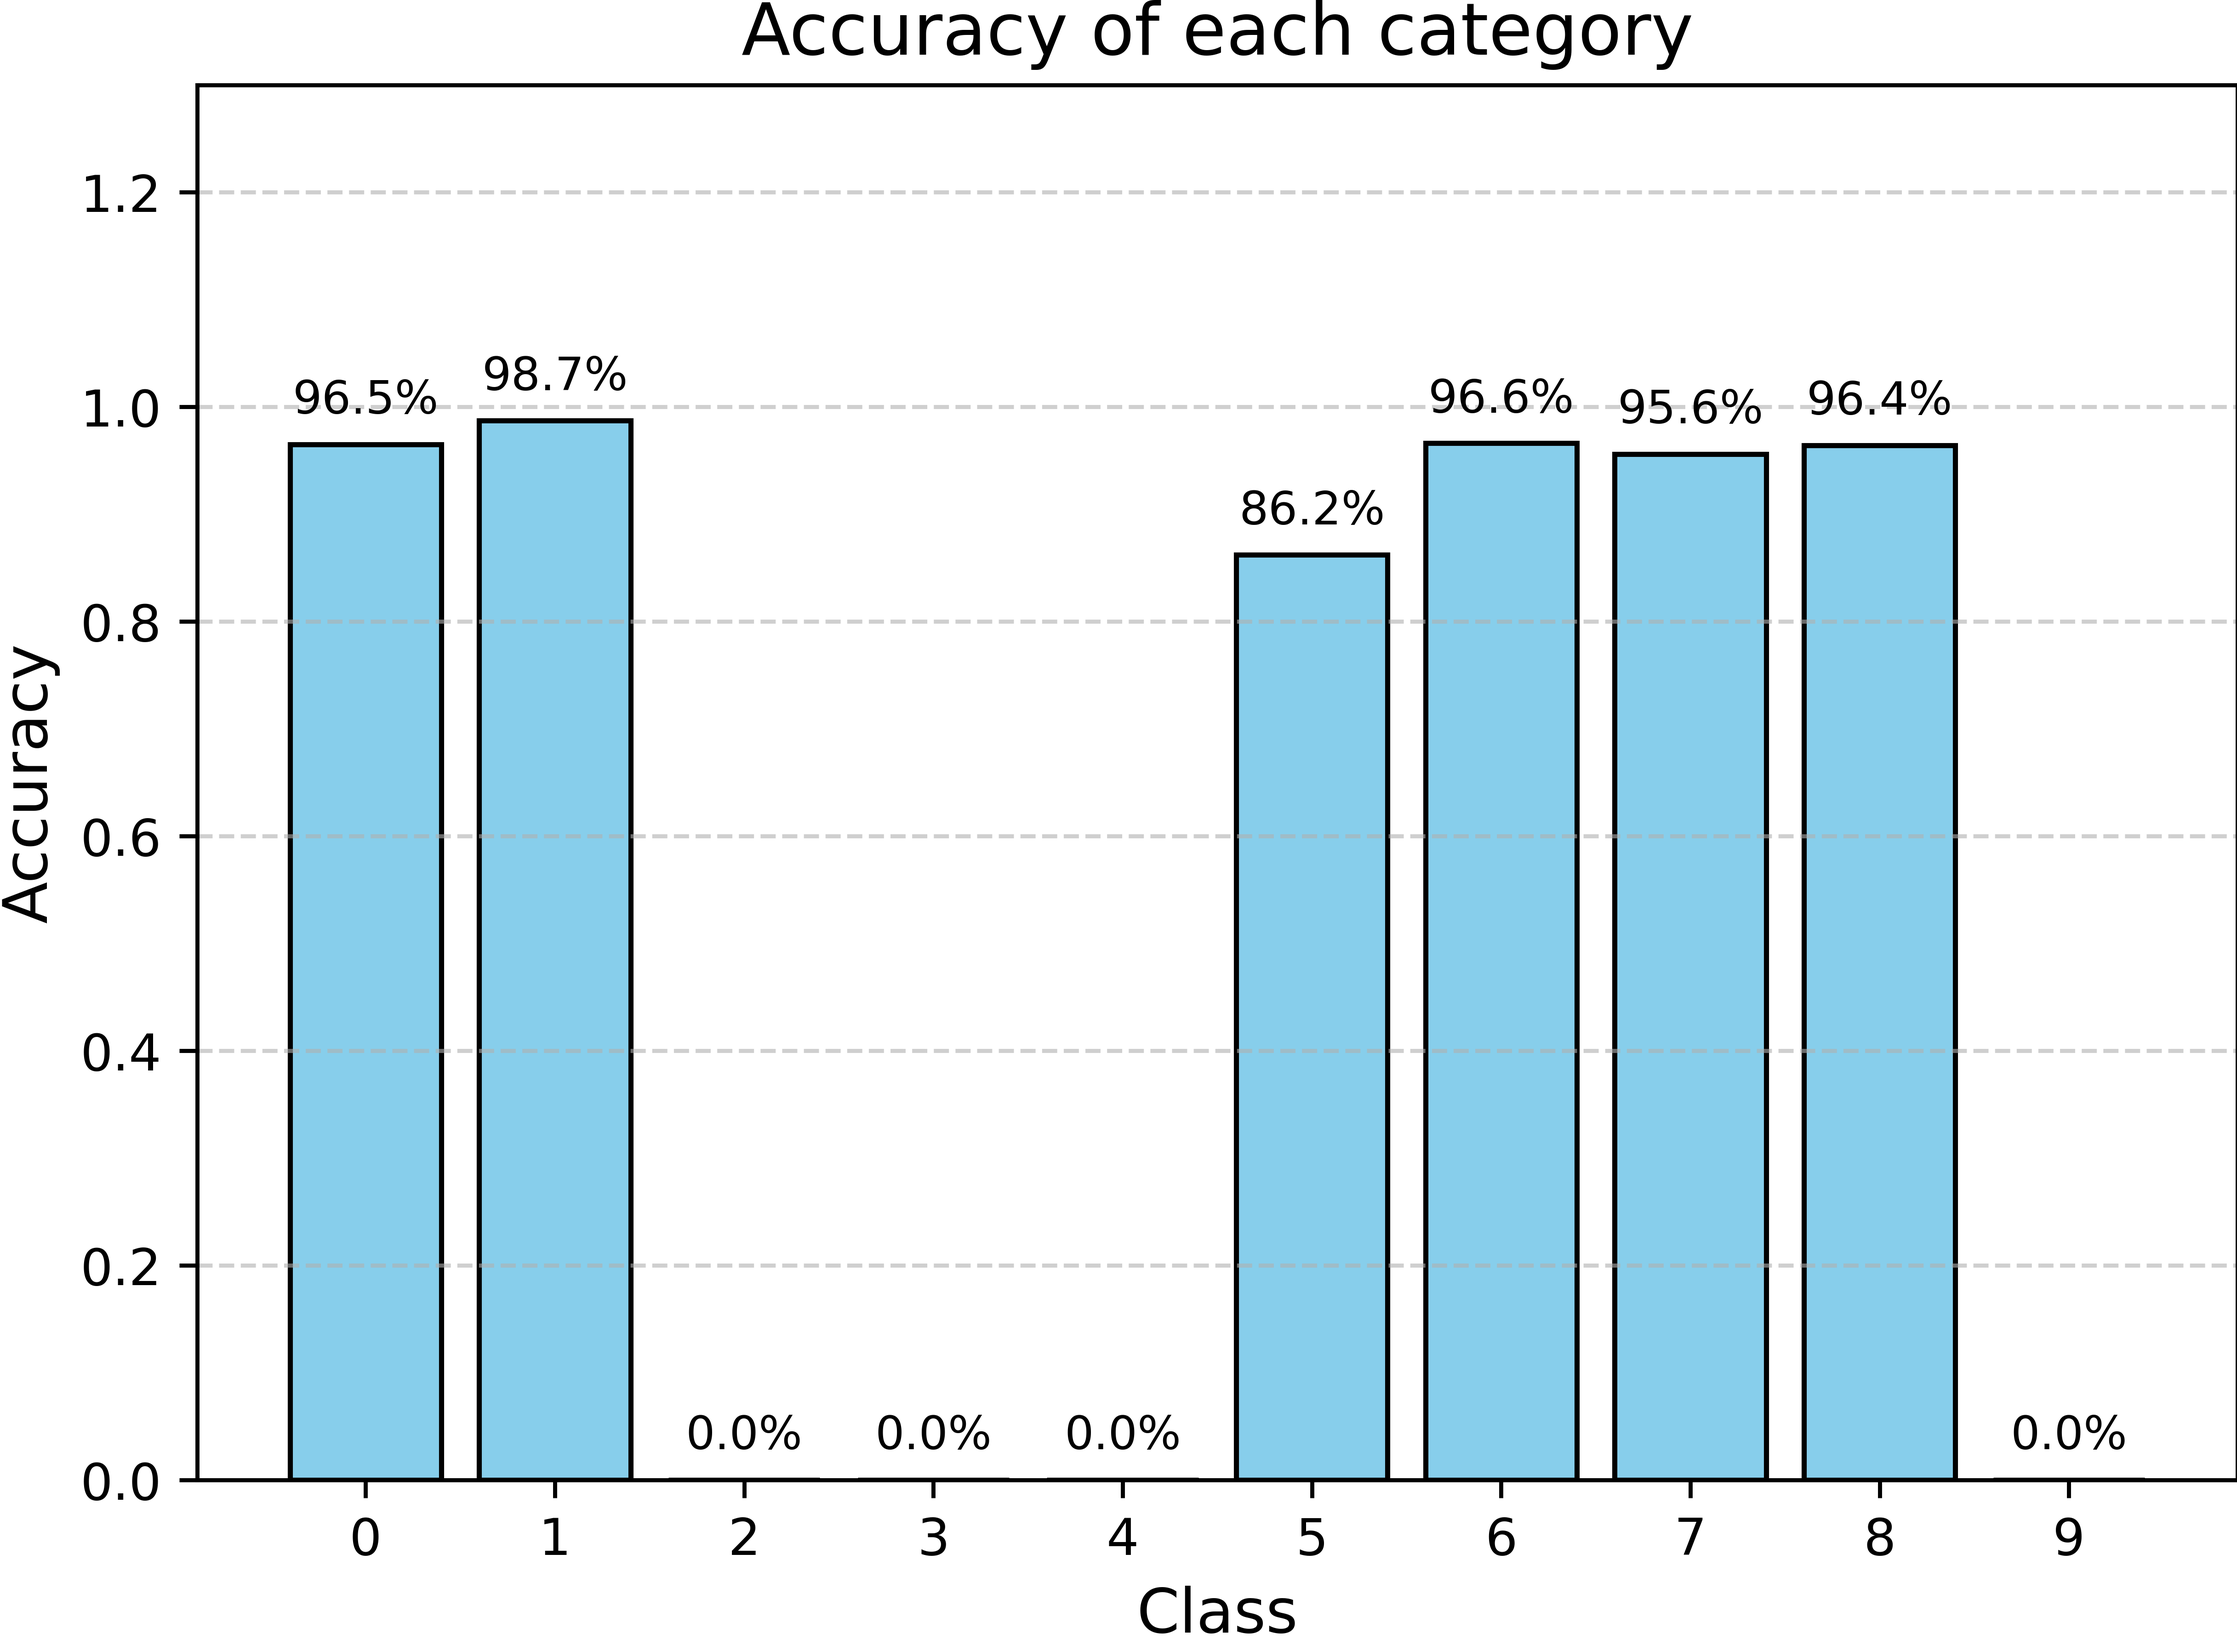
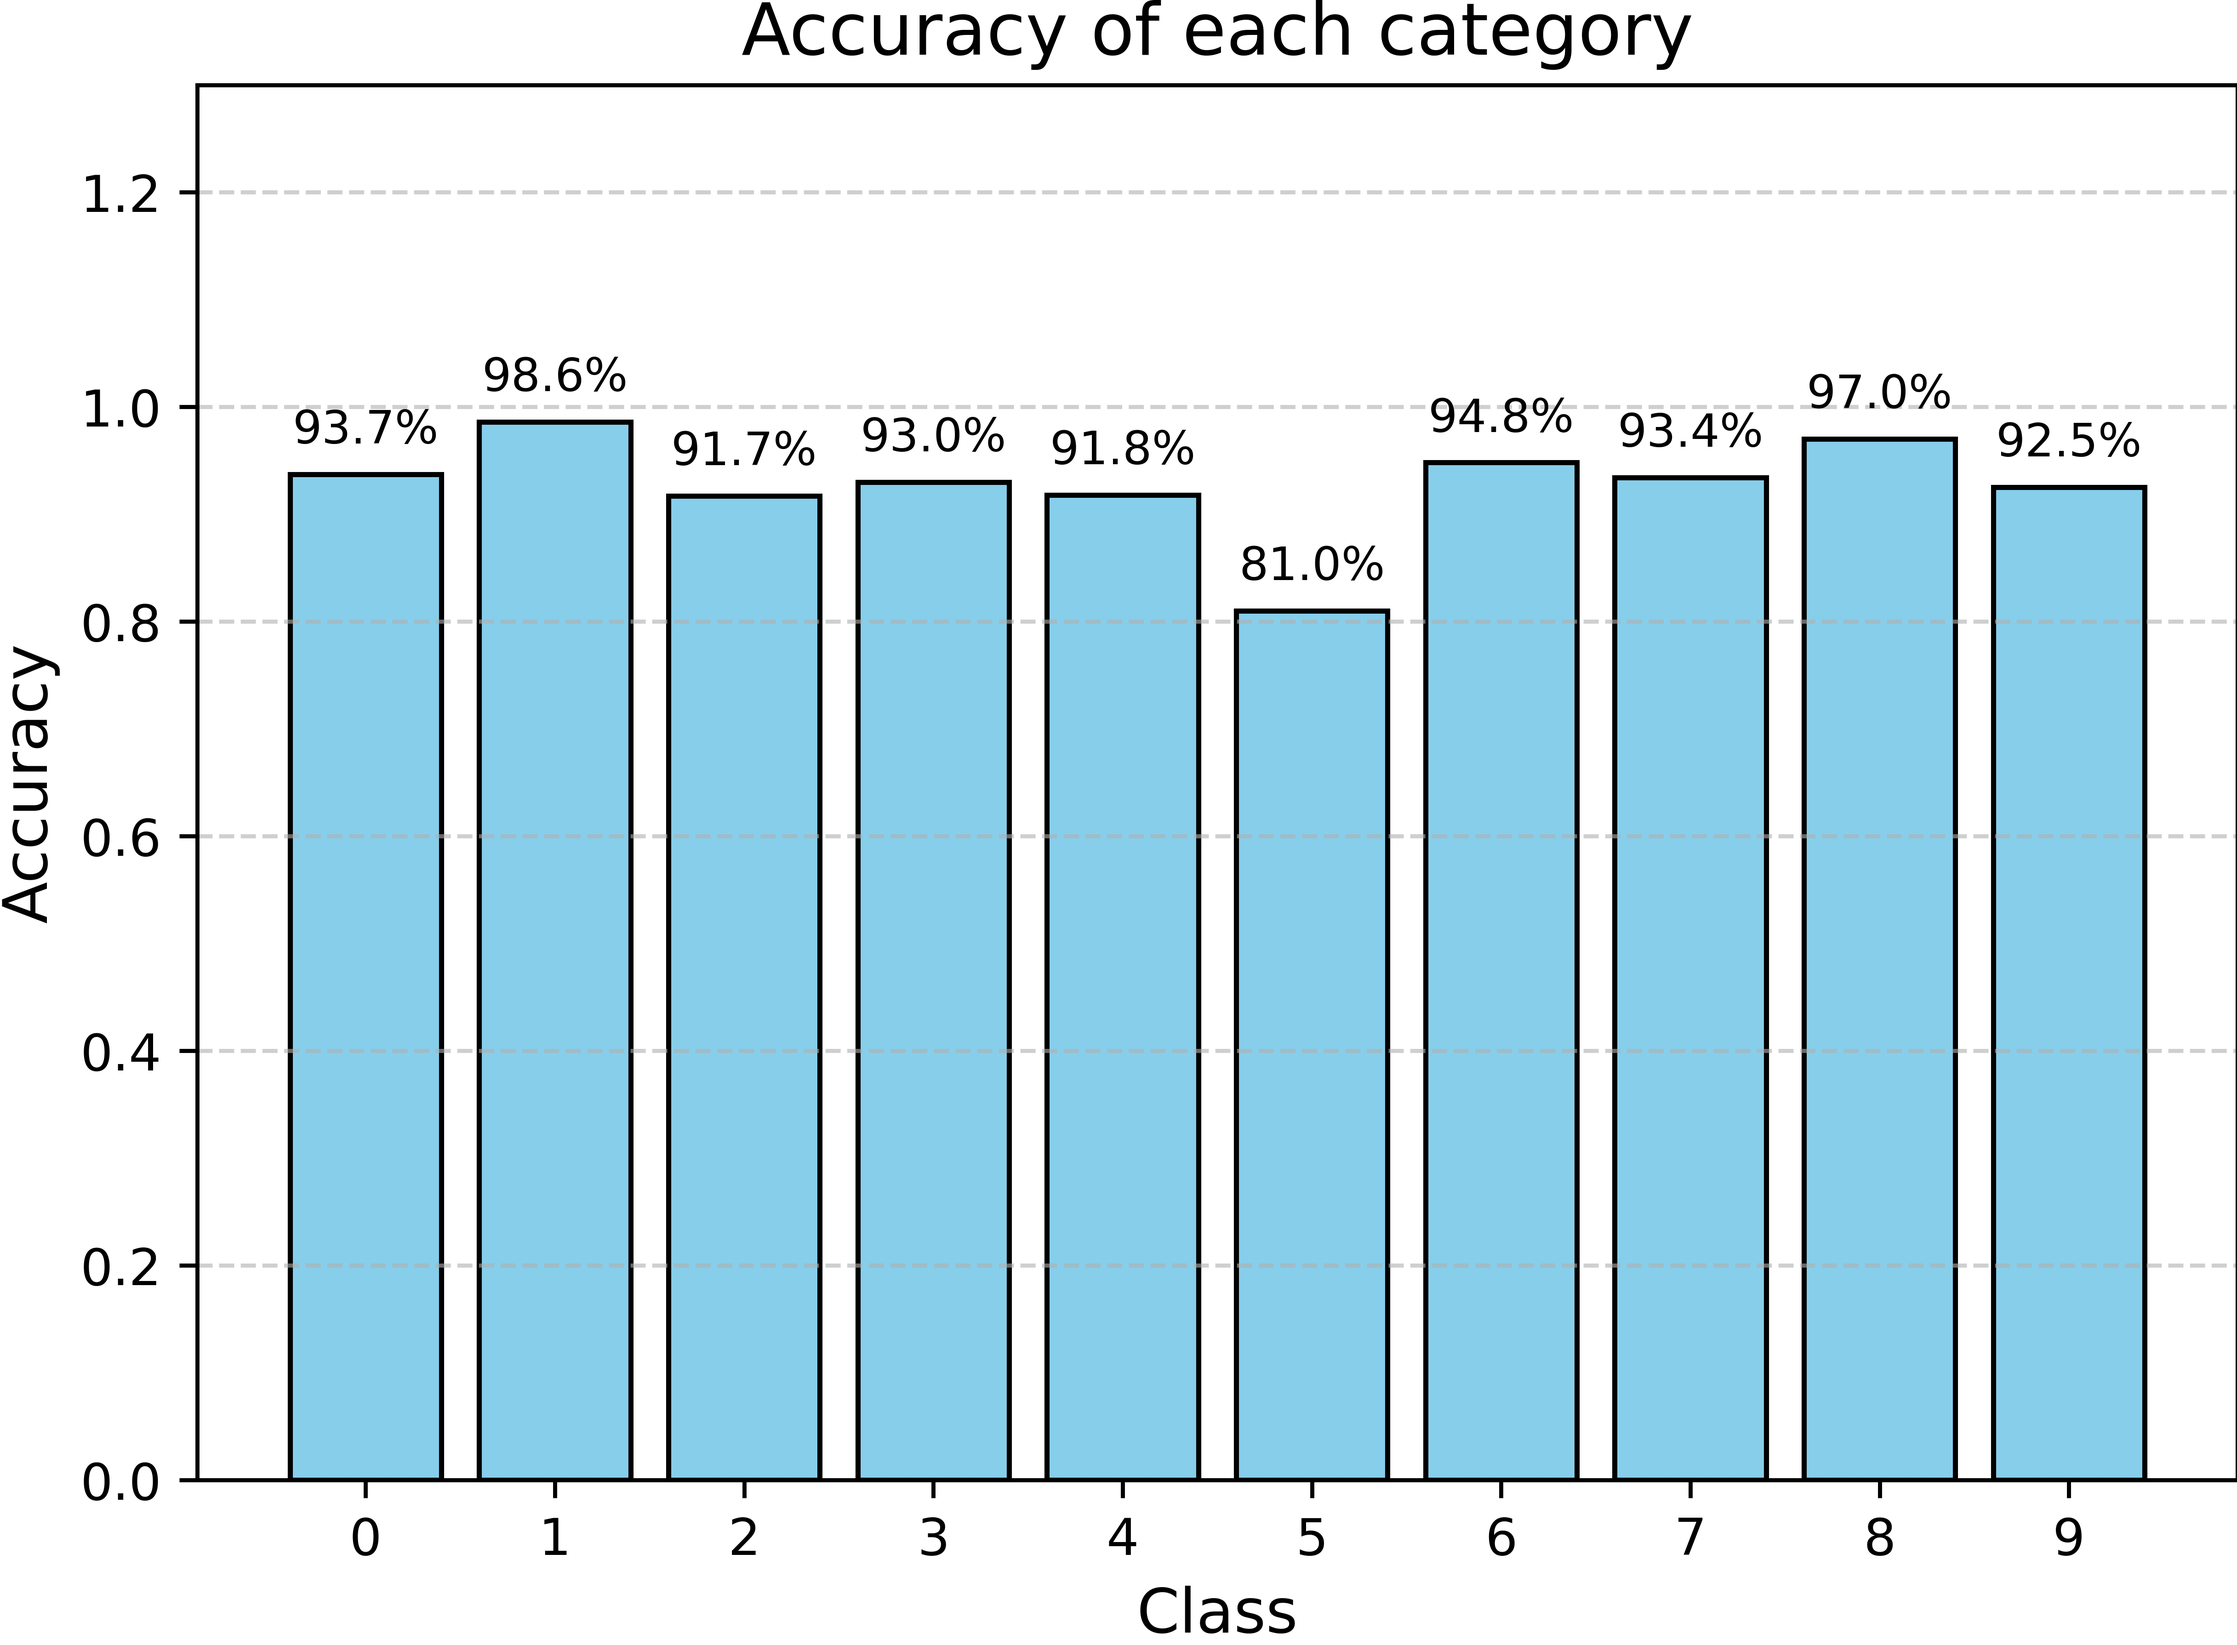
go

diff --git a/codes/ourMethod/defence.py b/codes/ourMethod/defence.py
@@ -417,7 +417,7 @@ def defence_train(
             record_list = poison_linear_record(model, poisoned_eval_dataset_loader, split_criterion, device,dataset_name=kwargs["dataset_name"], model_name =kwargs["model_name"])
             print("Mining clean data by class-agnostic loss-guided split...")
             # 将trainset对半划分为clean pool和poisoned pool
-            split_indice = class_agnostic_loss_guided_split(record_list, 0.5, poisoned_ids, sampling_method=None, class_prob_map=class_prob_map, classes_rank = classes_rank) # class_prob_map=class_prob_map
+            split_indice = class_agnostic_loss_guided_split(record_list, 0.5, poisoned_ids, sampling_method="method_2", class_prob_map=class_prob_map, classes_rank = classes_rank) # class_prob_map=class_prob_map
             xdata = MixMatchDataset(poisoned_train_dataset, split_indice, labeled=True)
             udata = MixMatchDataset(poisoned_train_dataset, split_indice, labeled=False)
         elif epoch < total_epoch: # epoch:[90,120]
@@ -483,7 +483,7 @@ def defence_train(
 
             # 开始干净样本的挖掘
             print("Mining clean data by meta-split...")
-            split_indice = meta_split(record_list, meta_record_list, 0.5, poisoned_ids, sampling_method=None, class_prob_map=class_prob_map, classes_rank = classes_rank)
+            split_indice = meta_split(record_list, meta_record_list, 0.5, poisoned_ids, sampling_method="method_2", class_prob_map=class_prob_map, classes_rank = classes_rank)
 
             xdata = MixMatchDataset(poisoned_train_dataset, split_indice, labeled=True)
             udata = MixMatchDataset(poisoned_train_dataset, split_indice, labeled=False)  

diff --git a/codes/eval.py b/codes/eval.py
@@ -31,7 +31,7 @@ model = get_model(dataset_name=config.dataset_name, model_name=config.model_name
 
 # 加载模型权重
 # 权重路径
-dict_path = "/data/mml/backdoor_detect/experiments/OurMethod/CIFAR10/VGG19/BadNets/2025-03-23_20:54:05/ckpt/latest_model.pt"
+dict_path = "/data/mml/backdoor_detect/experiments/ASD/CIFAR10/ResNet18/BadNets/2025-02-04_13:08:56/ckpt/latest_model.pt"
 dict_data = torch.load(dict_path,map_location="cpu")
 # 权重load到模型中
 model.load_state_dict(dict_data["model_state_dict"])

diff --git a/codes/config.py b/codes/config.py
@@ -41,7 +41,7 @@ dataset_name = "CIFAR10" # CIFAR10, GTSRB, ImageNet2012_subset
 # 数据集分类任务数量
 class_num = 10 #  CIFAR-10:10,GTSRB:43,ImageNet2012_subset:30
 # 当前实验设置的模型名字
-model_name = "VGG19" # ResNet18, VGG19, DenseNet
+model_name = "ResNet18" # ResNet18, VGG19, DenseNet
 # 当前实验设置的攻击
 attack_name = "BadNets" # BadNets, IAD, Refool, WaNet
 # GPU设备 
